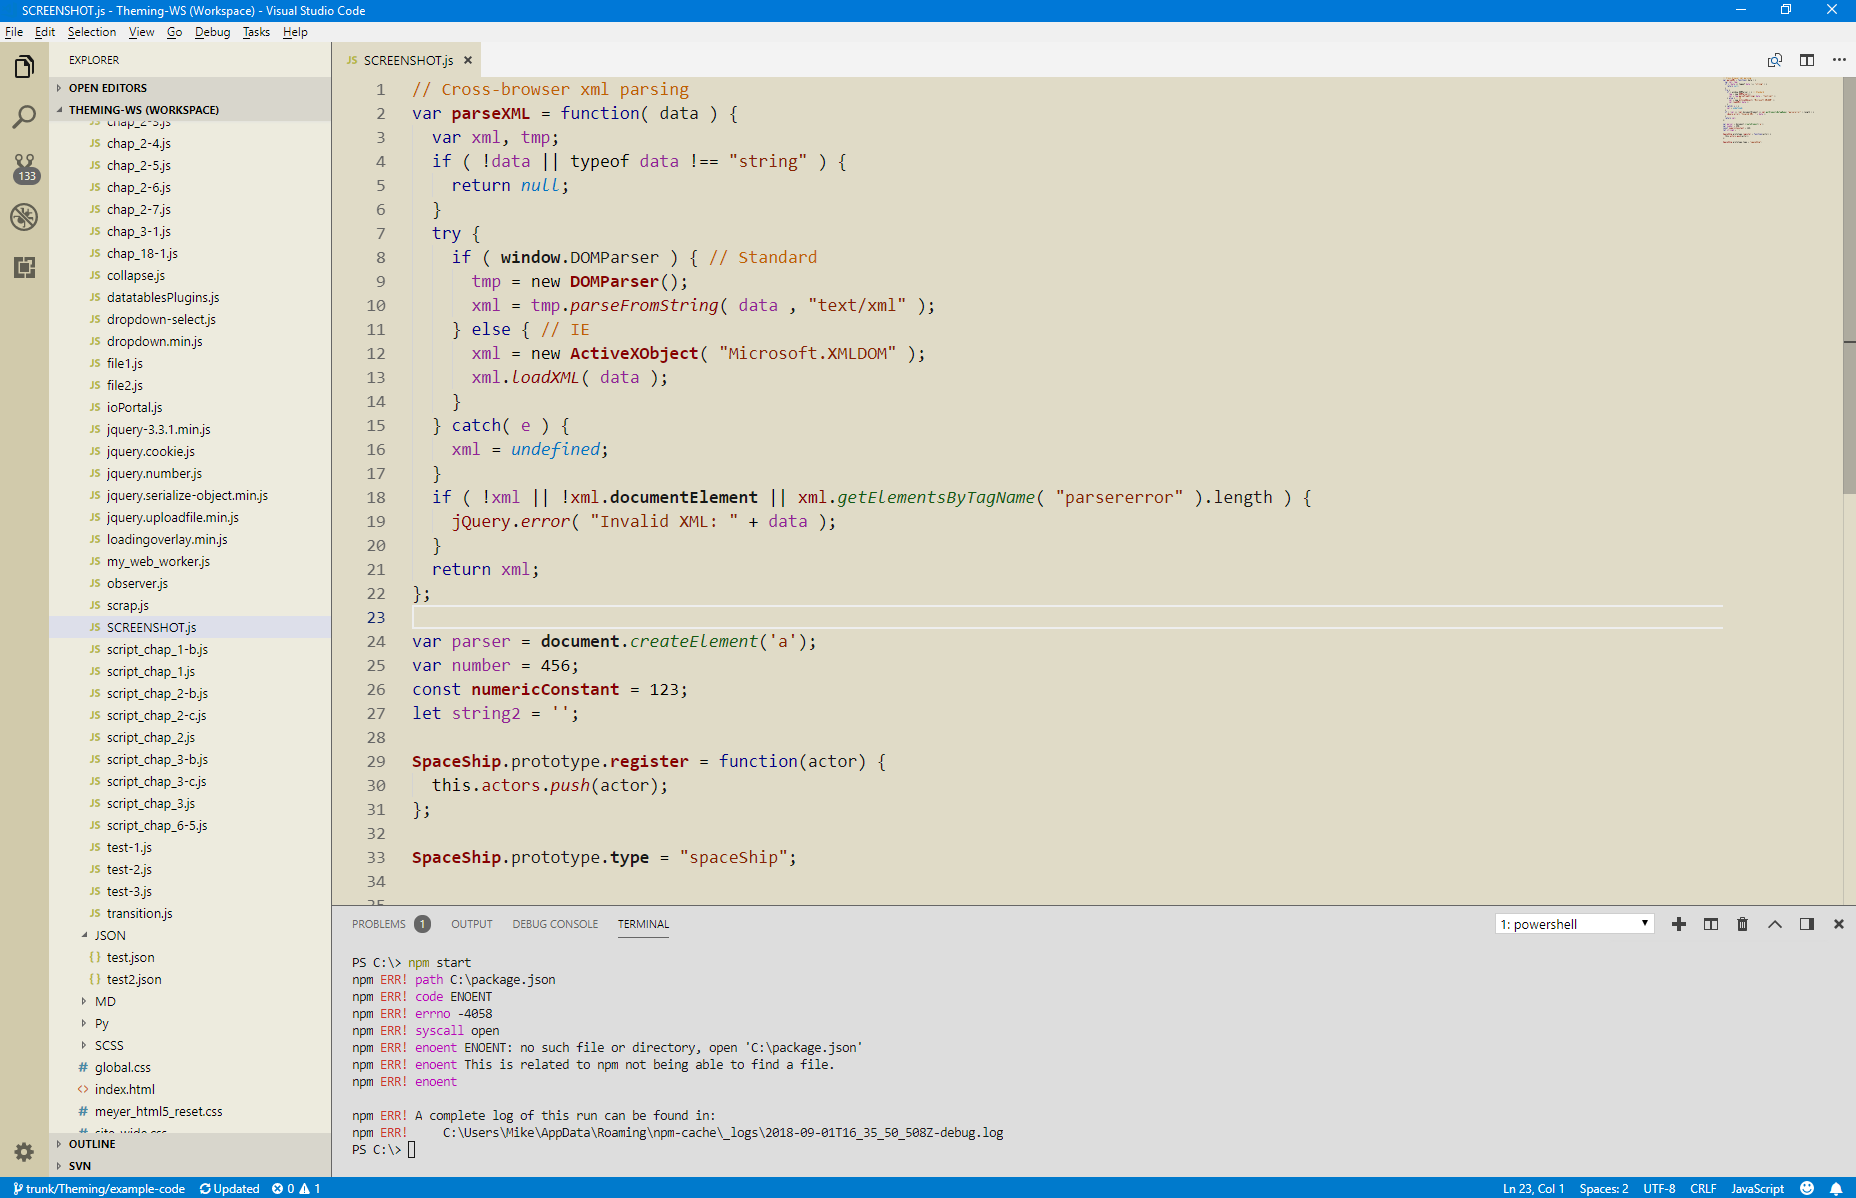
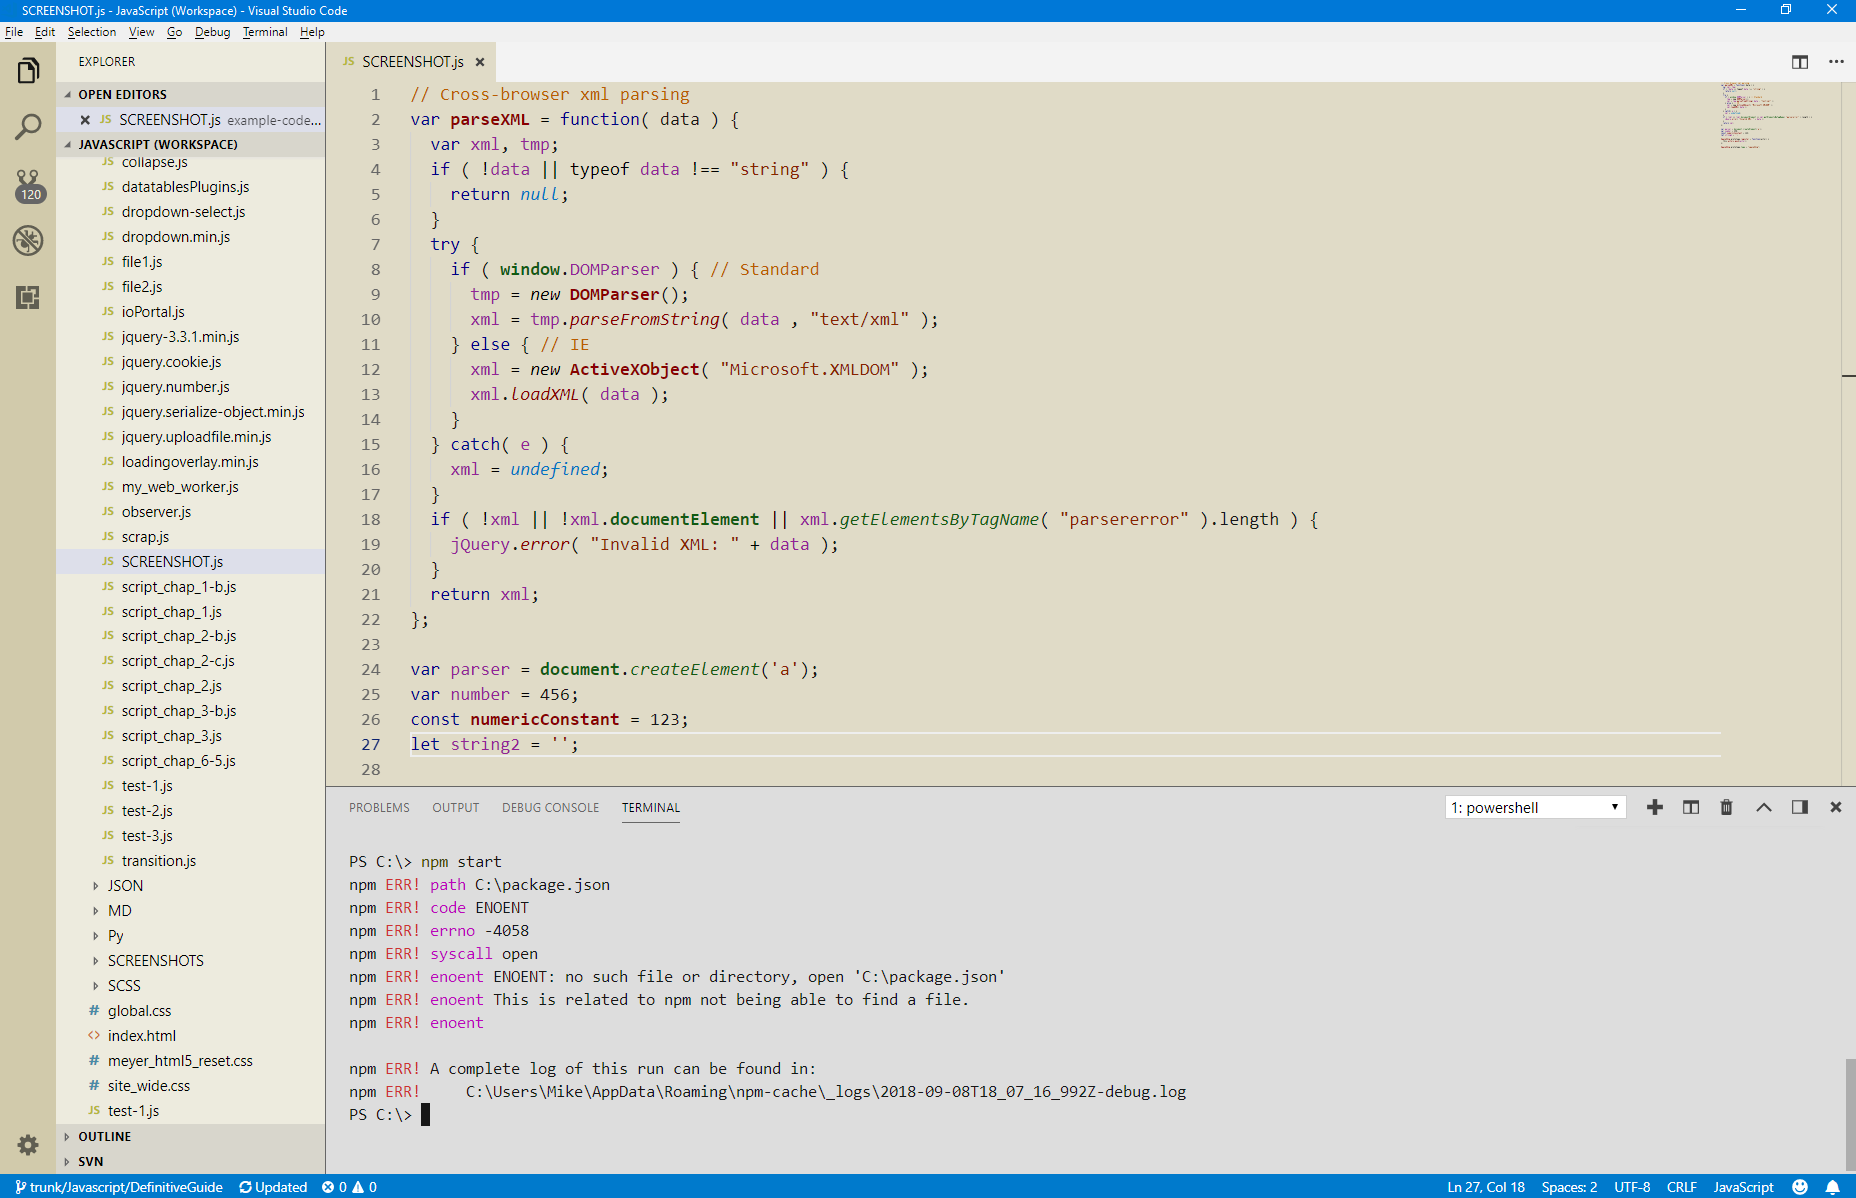
v1.2.4

diff --git a/README.md b/README.md
@@ -14,6 +14,11 @@ The Firefox (desktop) reader button (sepia setting) uses a similar (but lighter)
 ## Supported Languages (currently)
 ES6 (JavaScript) and below, JSON, HTML, CSS, SCSS, Markdown
 
+## Low Contrast - But Not Ultra-Low Contrast
+Comments are meant to be read by human beings. So *why* is it that so many theme developers make their comments *ultra*-low contrast with the background color (thus making comments difficult to read)? In my opinion, this is misguided. Comments should be easy to read!
+
+**Daobeam** strives to have a consistent contrast across *all* foreground colors. My hope is that nothing is too high contrast, and nothing is too low contrast - including comments.
+
 ## See Below the Screenshots for More Info
 
 ## Full Editor
@@ -46,14 +51,21 @@ Use bold when something is more powerful than something else. Case in point: CSS
 In my CSS screenshots, notice how the property values are all the same color (good!). In many of the themes you see, this is not the case. As a long-time CSS developer, I want all property values to be the same color. Most themes don't have this consistency because the theme author didn't put in the time to figure out how to do it. I did.
 
 ## User Settings Recommendations
+VS Code user settings has properties to increase the font-size of the source code (`editor.fontSize`), the terminal (`terminal.integrated.fontSize`), but *not* the editor sidebar. I think it's important to be able to easily read the names of your files in the sidebar. So here is a simple workaround for this limitation: You simply increase the overall font-size of everything using `window.zoomLevel`, and then slightly *decrease* the `editor.fontSize` and `terminal.integrated.fontSize` to compensate for increasing `window.zoomLevel`:
+
 ```
 {
-    "window.zoomLevel": 0,
-    "editor.fontFamily": "Consolas",
-    "editor.fontSize": 18,
     "workbench.colorTheme": "Daobeam",
-    "files.autoSave": "onFocusChange",
+    "editor.fontFamily": "Consolas",
+    
+    //BEGIN these settings work in tandem ~~~~~~~~
+    "window.zoomLevel": 0.7, //0.7<-- keep this value in a comment, because it will be overwritten on ctrl + 0, ctrl + +, or ctrl + -.
+    "editor.fontSize": 16, //smaller than I would want it if window.zoomLevel was 0
+    "terminal.integrated.fontSize": 15, //smaller than I would want it if window.zoomLevel was 0
+    //END these values work in tandem ~~~~~~~~
+    
     "editor.wordWrap": "on",
+    "files.autoSave": "onFocusChange",
 }
 ```
 

diff --git a/CHANGELOG.md b/CHANGELOG.md
@@ -4,6 +4,21 @@ All notable changes to the "Daobeam" extension will be documented in this file.
 The format is based on [Keep a Changelog](http://keepachangelog.com/en/1.0.0/)
 and this project adheres to [Semantic Versioning](http://semver.org/spec/v2.0.0.html).
 
+
+## [1.2.4] - 2018-09-8
+### Changed
+- JavaScript refinements
+    - Make DOM properties (bold) and DOM functions (italic) the same color (green). Now you know when you're working with the DOM!
+    - Make variables much more consistent in color
+    - Make string templates standard foreground color
+	- General polishing (`delete` and `this` keywords)
+    - Refactor and cleanup: remove a lot of overscoping in variables and functions
+- All languages
+    - Make comments slightly darker orange
+- README.md
+    - Added section on constrast
+    - Changed user settings (how to increase sidebar font)
+
 ## [1.2.3] - 2018-09-1
 ### Changed
 - Syntax coloring clean-up, make consistent, refactor
